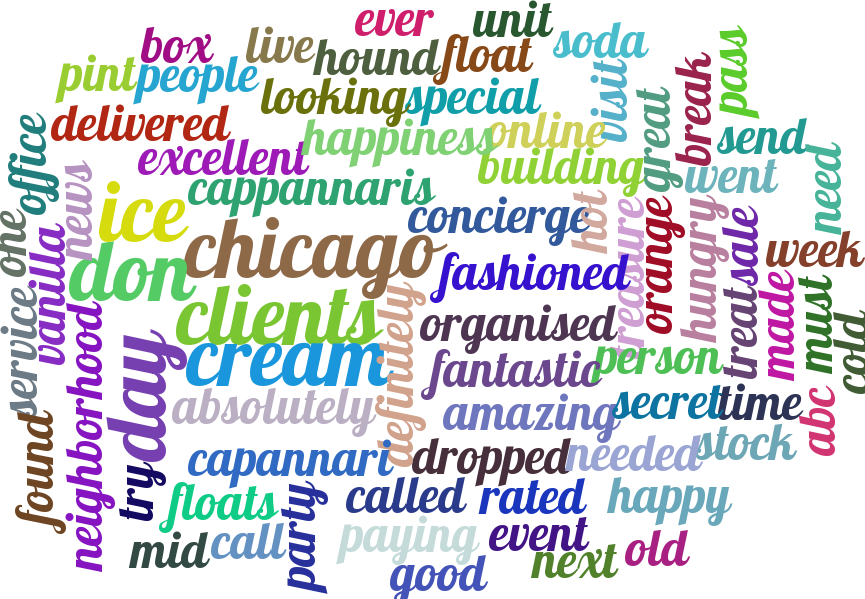
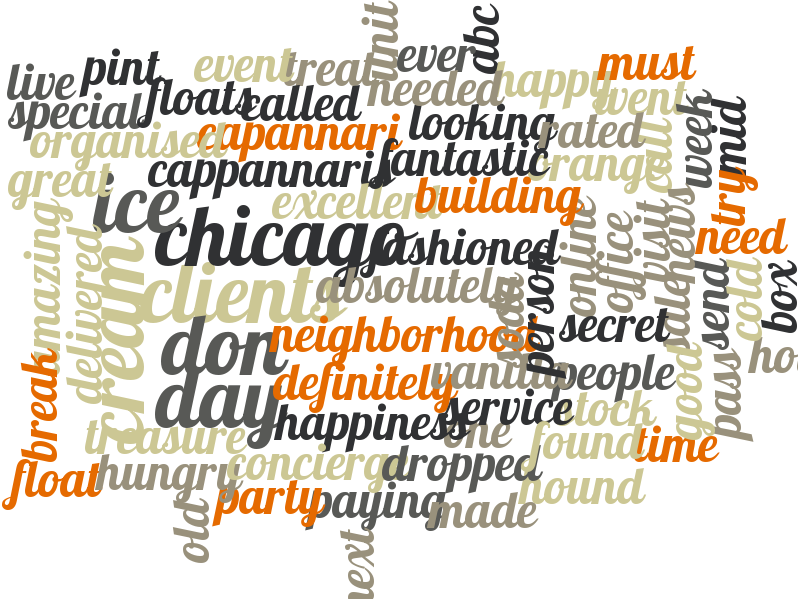
Different color shades option for the word cloud

diff --git a/Development/WordCloud/zomato/wordcloud.py b/Development/WordCloud/zomato/wordcloud.py
@@ -3,6 +3,7 @@ from ConfigParser import SafeConfigParser
 from pytagcloud import create_tag_image, make_tags
 from pytagcloud.lang.counter import get_tag_counts
 import webbrowser
+from pytagcloud.colors import COLOR_SCHEMES
 
 
 def convert(input):
@@ -38,6 +39,6 @@ for file in os.listdir(dir):
     total = len(all_reviews)
     print (total)
 
-tags = make_tags(get_tag_counts(all_reviews), maxsize=50)
+tags = make_tags(get_tag_counts(all_reviews), maxsize=50, colors= COLOR_SCHEMES['goldfish'])
 create_tag_image(tags, 'cloud_large.png', size=(900, 600), fontname='Lobster')
 webbrowser.open('cloud_large.png') # see results
